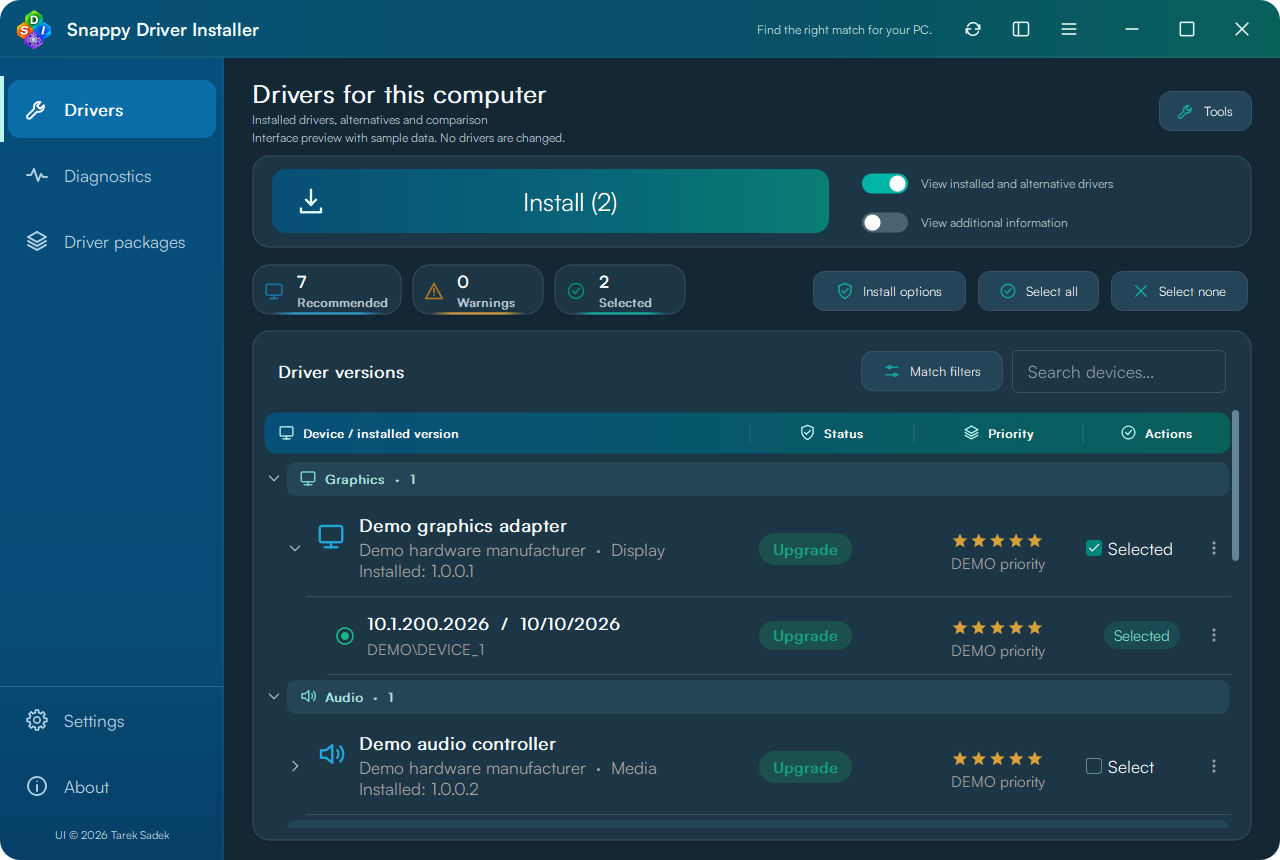
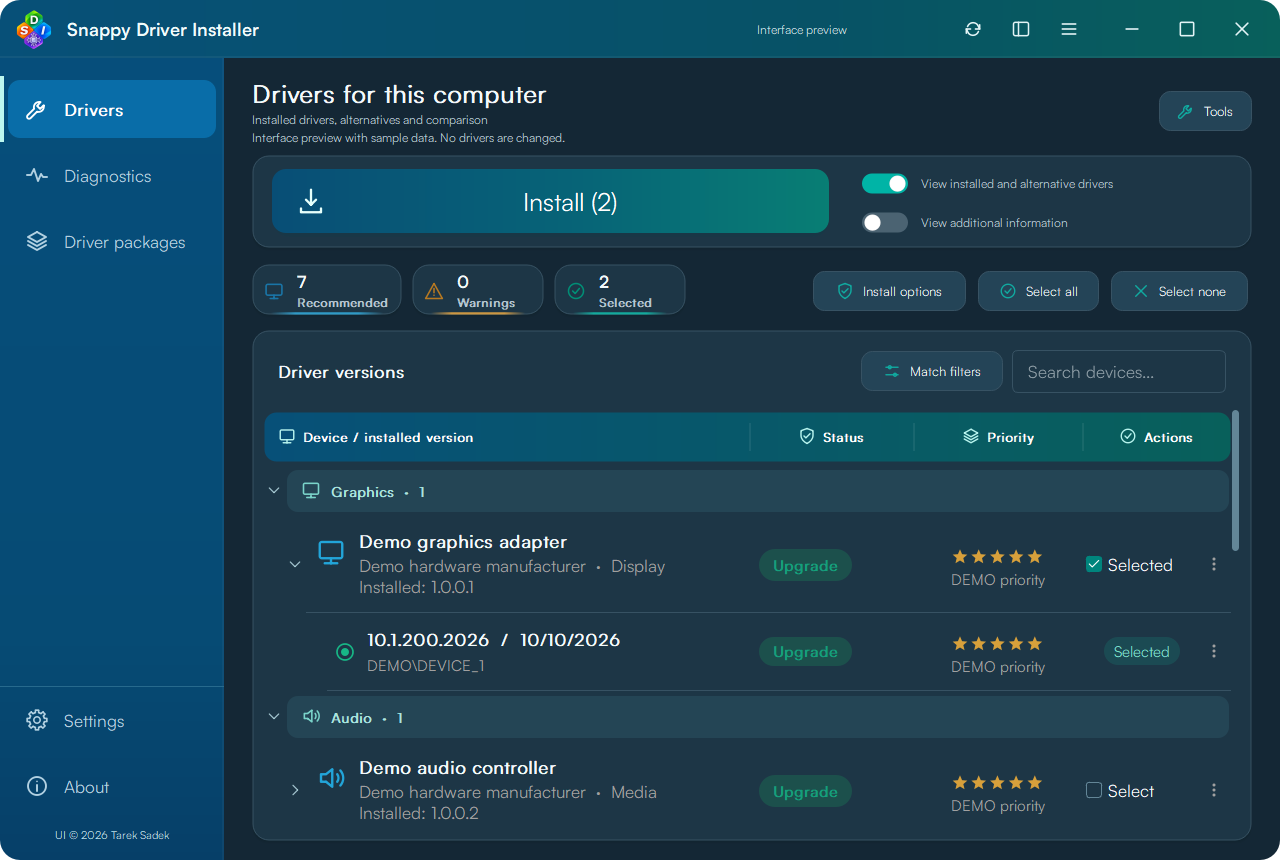
Balance driver header and category spacing

diff --git a/src/driver_workspace.cpp b/src/driver_workspace.cpp
@@ -50,13 +50,13 @@
 
 // Paint the entire header once so native section backgrounds cannot leave square corners.
 class DriverHeader : public QHeaderView {
-public:explicit DriverHeader(QWidget *parent):QHeaderView(Qt::Horizontal,parent){setFixedHeight(48);viewport()->setAutoFillBackground(false);viewport()->setAttribute(Qt::WA_OpaquePaintEvent,false);}
+public:explicit DriverHeader(QWidget *parent):QHeaderView(Qt::Horizontal,parent){setFixedHeight(56);viewport()->setAutoFillBackground(false);viewport()->setAttribute(Qt::WA_OpaquePaintEvent,false);}
 protected:void paintEvent(QPaintEvent*) Q_DECL_OVERRIDE {
     QPainter p(viewport());p.setRenderHint(QPainter::Antialiasing);const bool dark=Theme::isDark(this),rtl=layoutDirection()==Qt::RightToLeft;
     p.fillRect(viewport()->rect(),Theme::color("surface",dark));
     const QRectF band=QRectF(viewport()->rect()).adjusted(.5,3.5,-.5,-3.5);QLinearGradient fill(band.topLeft(),band.topRight());fill.setColorAt(0,Theme::color("headerStart",dark));fill.setColorAt(1,Theme::color("headerEnd",dark));p.setPen(Qt::NoPen);p.setBrush(fill);p.drawRoundedRect(band,12,12);
     QPainterPath clip;clip.addRoundedRect(band,12,12);p.setClipPath(clip);
-    QFont face=font();face.setFamily(UiFont::family());face.setPixelSize(12);face.setWeight(QFont::DemiBold);p.setFont(face);
+    QFont face=font();face.setFamily(UiFont::family());face.setPixelSize(13);face.setWeight(QFont::DemiBold);p.setFont(face);
     const char *symbols[]={"monitor","shield","layers","check-circle"};
     for(int section=0;section<count();++section){
         if(isSectionHidden(section))continue;const QRect area(sectionViewportPosition(section),4,sectionSize(section),height()-8);
@@ -64,7 +64,7 @@ protected:void paintEvent(QPaintEvent*) Q_DECL_OVERRIDE {
         const QString label=p.fontMetrics().elidedText(model()->headerData(section,Qt::Horizontal).toString(),Qt::ElideRight,qMax(0,area.width()-48));
         const int textWidth=p.fontMetrics().width(label),total=textWidth+25;
         const int left=section==0?(rtl?area.right()-total-14:area.left()+14):area.center().x()-total/2;
-        VectorIcons::icon(QString::fromLatin1(symbols[section%4]),QColor("#B6F3ED"),17).paint(&p,QRect(rtl?left+total-17:left,area.center().y()-8,17,17));
+        VectorIcons::icon(QString::fromLatin1(symbols[section%4]),QColor("#B6F3ED"),18).paint(&p,QRect(rtl?left+total-18:left,area.center().y()-9,18,18));
         p.setPen(Qt::white);p.drawText(QRect(rtl?left:left+25,area.top(),textWidth,area.height()),Qt::AlignAbsolute|(rtl?Qt::AlignRight:Qt::AlignLeft)|Qt::AlignVCenter,label);
     }
 }
@@ -511,7 +511,7 @@ void DriverWorkspace::rebuild()
         if (!matchesFilters(row)) continue;
         const DriverEntry &d=m_catalog->entryRef(row);
         const QString category=VectorIcons::deviceCategory(d.device.deviceClass,d.device.name);
-        if(!categories.contains(category)){QTreeWidgetItem *group=new QTreeWidgetItem(m_tree);group->setData(0,Qt::UserRole,-10-categories.size());group->setData(0,Qt::UserRole+1,-2);group->setData(0,Qt::UserRole+13,true);group->setData(0,Qt::UserRole+14,category);group->setFlags(Qt::ItemIsEnabled);group->setSizeHint(0,QSize(0,44));group->setFirstColumnSpanned(true);categories.insert(category,group);}
+        if(!categories.contains(category)){QTreeWidgetItem *group=new QTreeWidgetItem(m_tree);group->setData(0,Qt::UserRole,-10-categories.size());group->setData(0,Qt::UserRole+1,-2);group->setData(0,Qt::UserRole+13,true);group->setData(0,Qt::UserRole+14,category);group->setFlags(Qt::ItemIsEnabled);group->setSizeHint(0,QSize(0,52));group->setFirstColumnSpanned(true);categories.insert(category,group);}
         QTreeWidgetItem *root=new QTreeWidgetItem(categories.value(category));
         root->setData(0,Qt::UserRole,row);
         root->setData(0,Qt::UserRole+1,-1);

diff --git a/src/driver_row_delegate.cpp b/src/driver_row_delegate.cpp
@@ -31,7 +31,7 @@ void DriverRowDelegate::paint(QPainter *p,const QStyleOptionViewItem &option,
     const bool child=index.sibling(index.row(),0).data(Qt::UserRole+1).toInt()>=0,rtl=option.direction==Qt::RightToLeft;
     const int align=Qt::AlignAbsolute|(rtl?Qt::AlignRight:Qt::AlignLeft);
     const int col=index.column();
-    if(index.data(Qt::UserRole+13).toBool()){p->save();p->setRenderHint(QPainter::Antialiasing);const bool dark=option.palette.color(QPalette::Base).lightness()<130;const QRect area=option.rect.adjusted(2,5,-2,-5);p->setPen(Qt::NoPen);p->setBrush(dark?QColor("#244555"):QColor("#EAF4F6"));p->drawRoundedRect(area,9,9);QFont face=option.font;face.setFamily(UiFont::family());face.setPixelSize(13);face.setWeight(QFont::DemiBold);p->setFont(face);p->setPen(dark?QColor("#A9E4DE"):QColor("#206477"));const QString category=index.data(Qt::UserRole+14).toString();VectorIcons::icon(VectorIcons::forDeviceClass(category),dark?QColor("#7AD4CA"):QColor("#168D9B"),18).paint(p,QRect(rtl?area.right()-30:area.left()+12,area.center().y()-9,18,18));p->drawText(area.adjusted(rtl?12:38,0,rtl?-38:-12,0),align|Qt::AlignVCenter,index.data().toString());p->restore();return;}
+    if(index.data(Qt::UserRole+13).toBool()){p->save();p->setRenderHint(QPainter::Antialiasing);const bool dark=option.palette.color(QPalette::Base).lightness()<130;const QRect area=option.rect.adjusted(2,5,-2,-5);p->setPen(Qt::NoPen);p->setBrush(dark?QColor("#244555"):QColor("#EAF4F6"));p->drawRoundedRect(area,11,11);QFont face=option.font;face.setFamily(UiFont::family());face.setPixelSize(14);face.setWeight(QFont::DemiBold);p->setFont(face);p->setPen(dark?QColor("#A9E4DE"):QColor("#206477"));const QString category=index.data(Qt::UserRole+14).toString();VectorIcons::icon(VectorIcons::forDeviceClass(category),dark?QColor("#7AD4CA"):QColor("#168D9B"),20).paint(p,QRect(rtl?area.right()-34:area.left()+14,area.center().y()-10,20,20));p->drawText(area.adjusted(rtl?14:44,0,rtl?-44:-14,0),align|Qt::AlignVCenter,index.data().toString());p->restore();return;}
     QStyleOptionViewItem rowOption(option);
     // The tree paints a single rounded full-row surface, including branches and actions.
     rowOption.state &= ~(QStyle::State_MouseOver|QStyle::State_Selected|QStyle::State_HasFocus);
